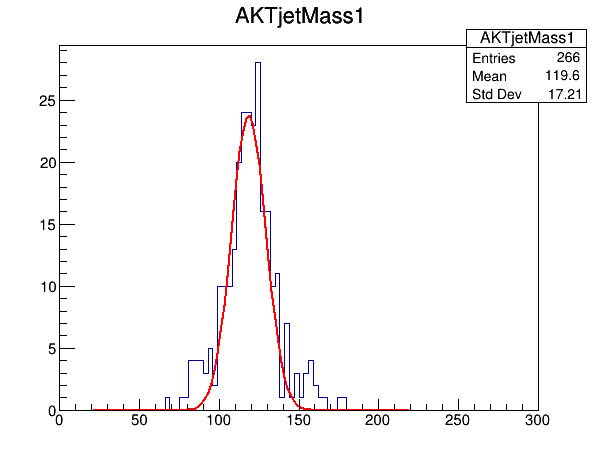
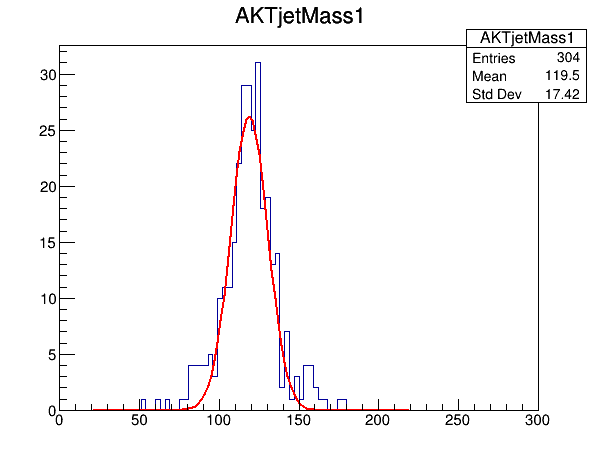
Update macro for pairing up anti-kt jets

diff --git a/Delphes/src/AnalyzeM.C b/Delphes/src/AnalyzeM.C
@@ -351,9 +351,9 @@ void AnalyzeM(const char *inputFile, const char *outputFile){
 	             jet1DeltaR = jet1DeltaRtmp;
 		     jet1entry = gen1entry;
 		     if (jet1DeltaR < 0.5){
-		         if (abs(Gen1eta) < 2.25){
+		         //if (abs(Gen1eta) < 2.25){
 		             AKT1flag = true;
-		         }
+		         //}
 		     }
 	         }  
              }
@@ -366,9 +366,9 @@ void AnalyzeM(const char *inputFile, const char *outputFile){
 	                 jet2DeltaR = jet2DeltaRtmp;
 		         jet2entry = gen2entry;
                          if (jet2DeltaR < 0.5){
-		             if (abs(Gen2eta) < 2.25){
+		             //if (abs(Gen2eta) < 2.25){
 		                 AKT2flag = true;
-			     }
+			     //}
 		         }
 	             }
 	         }
